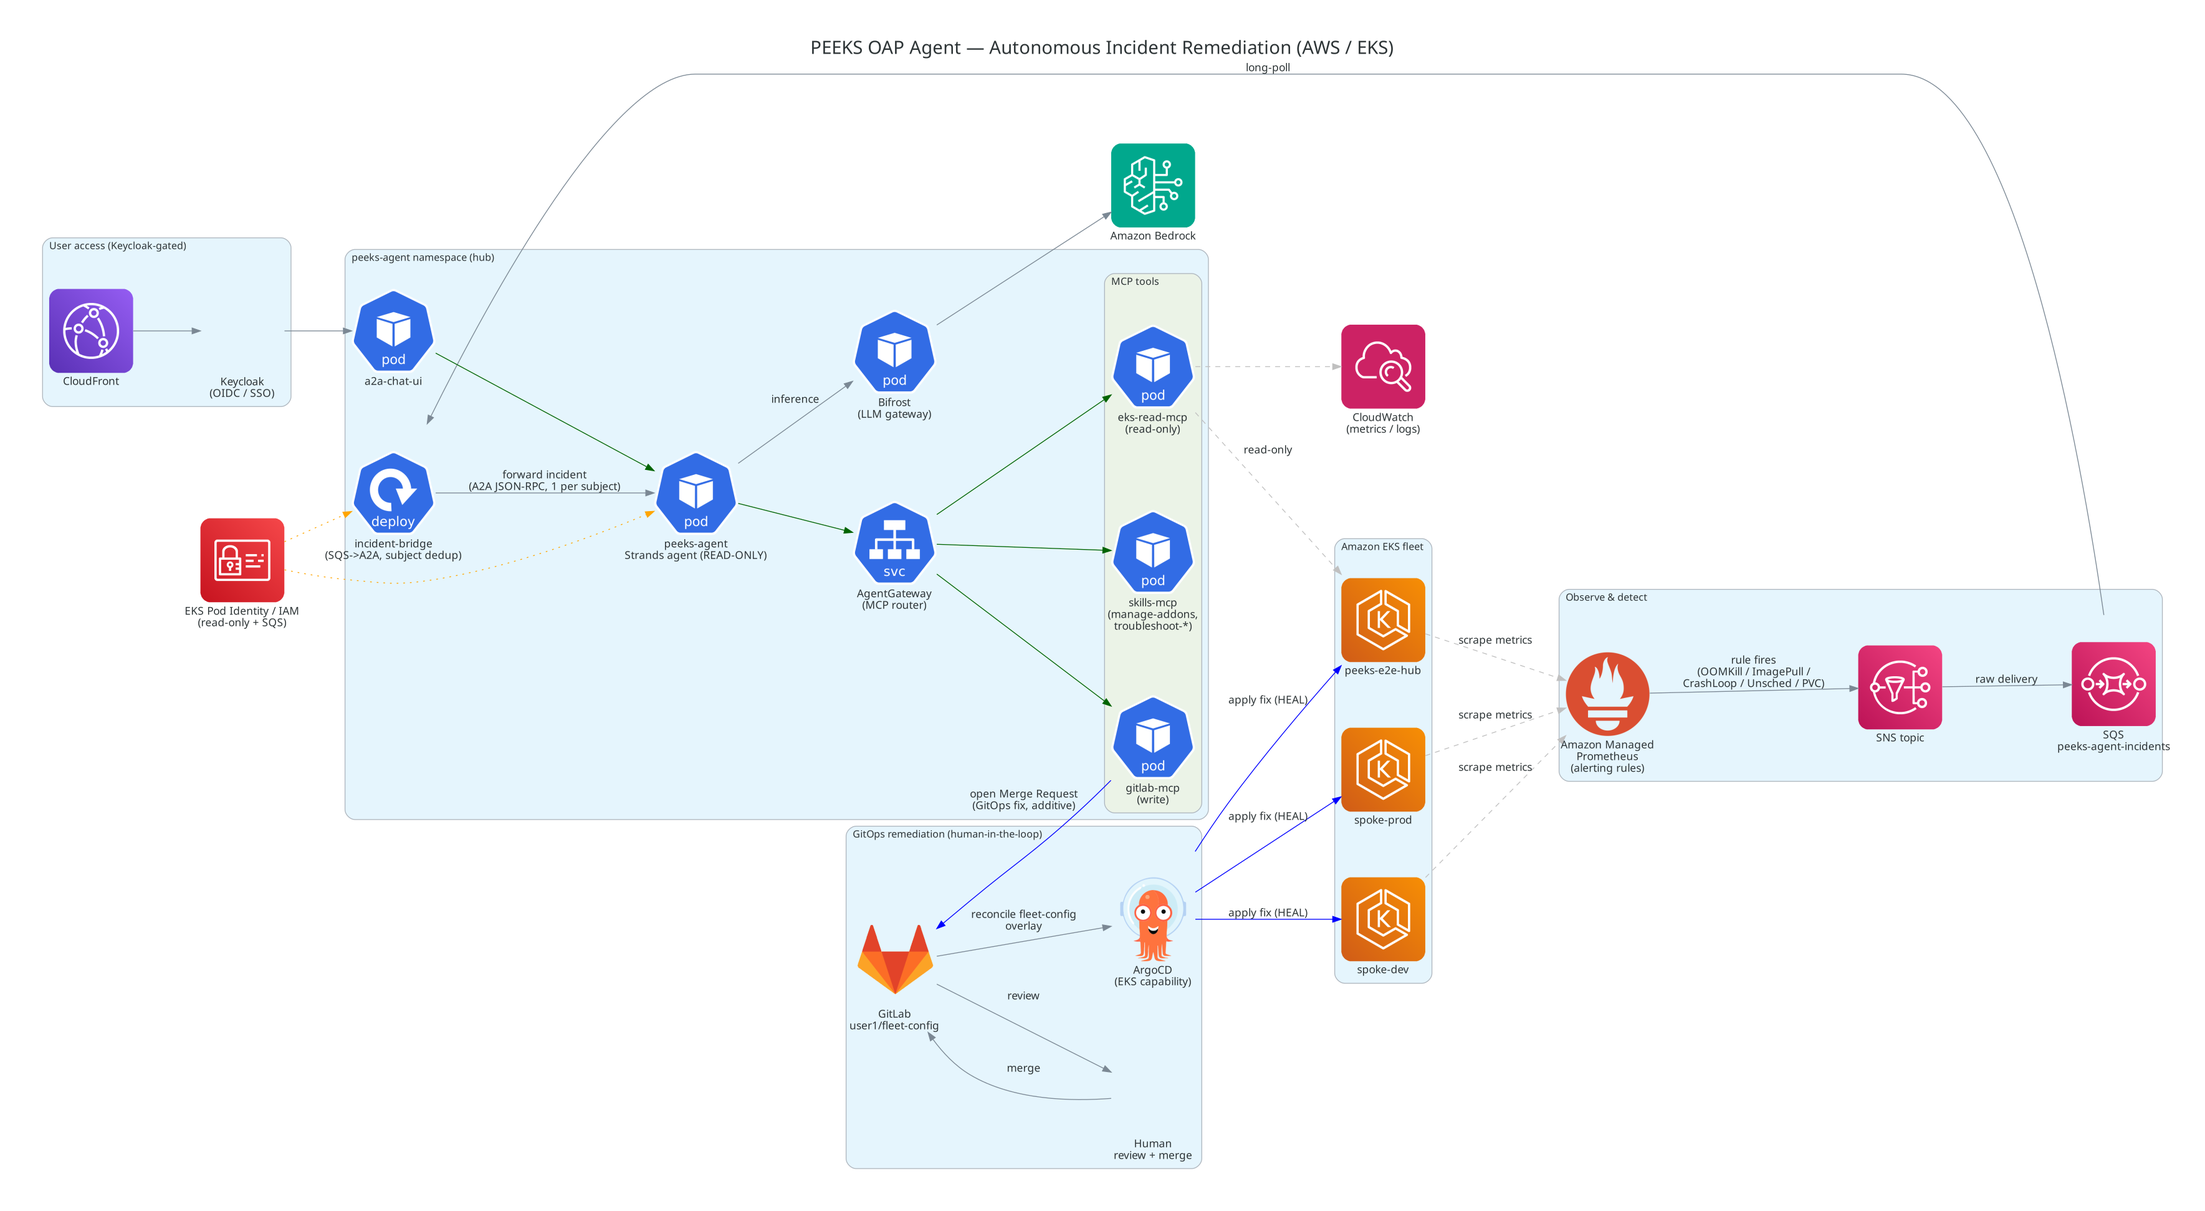
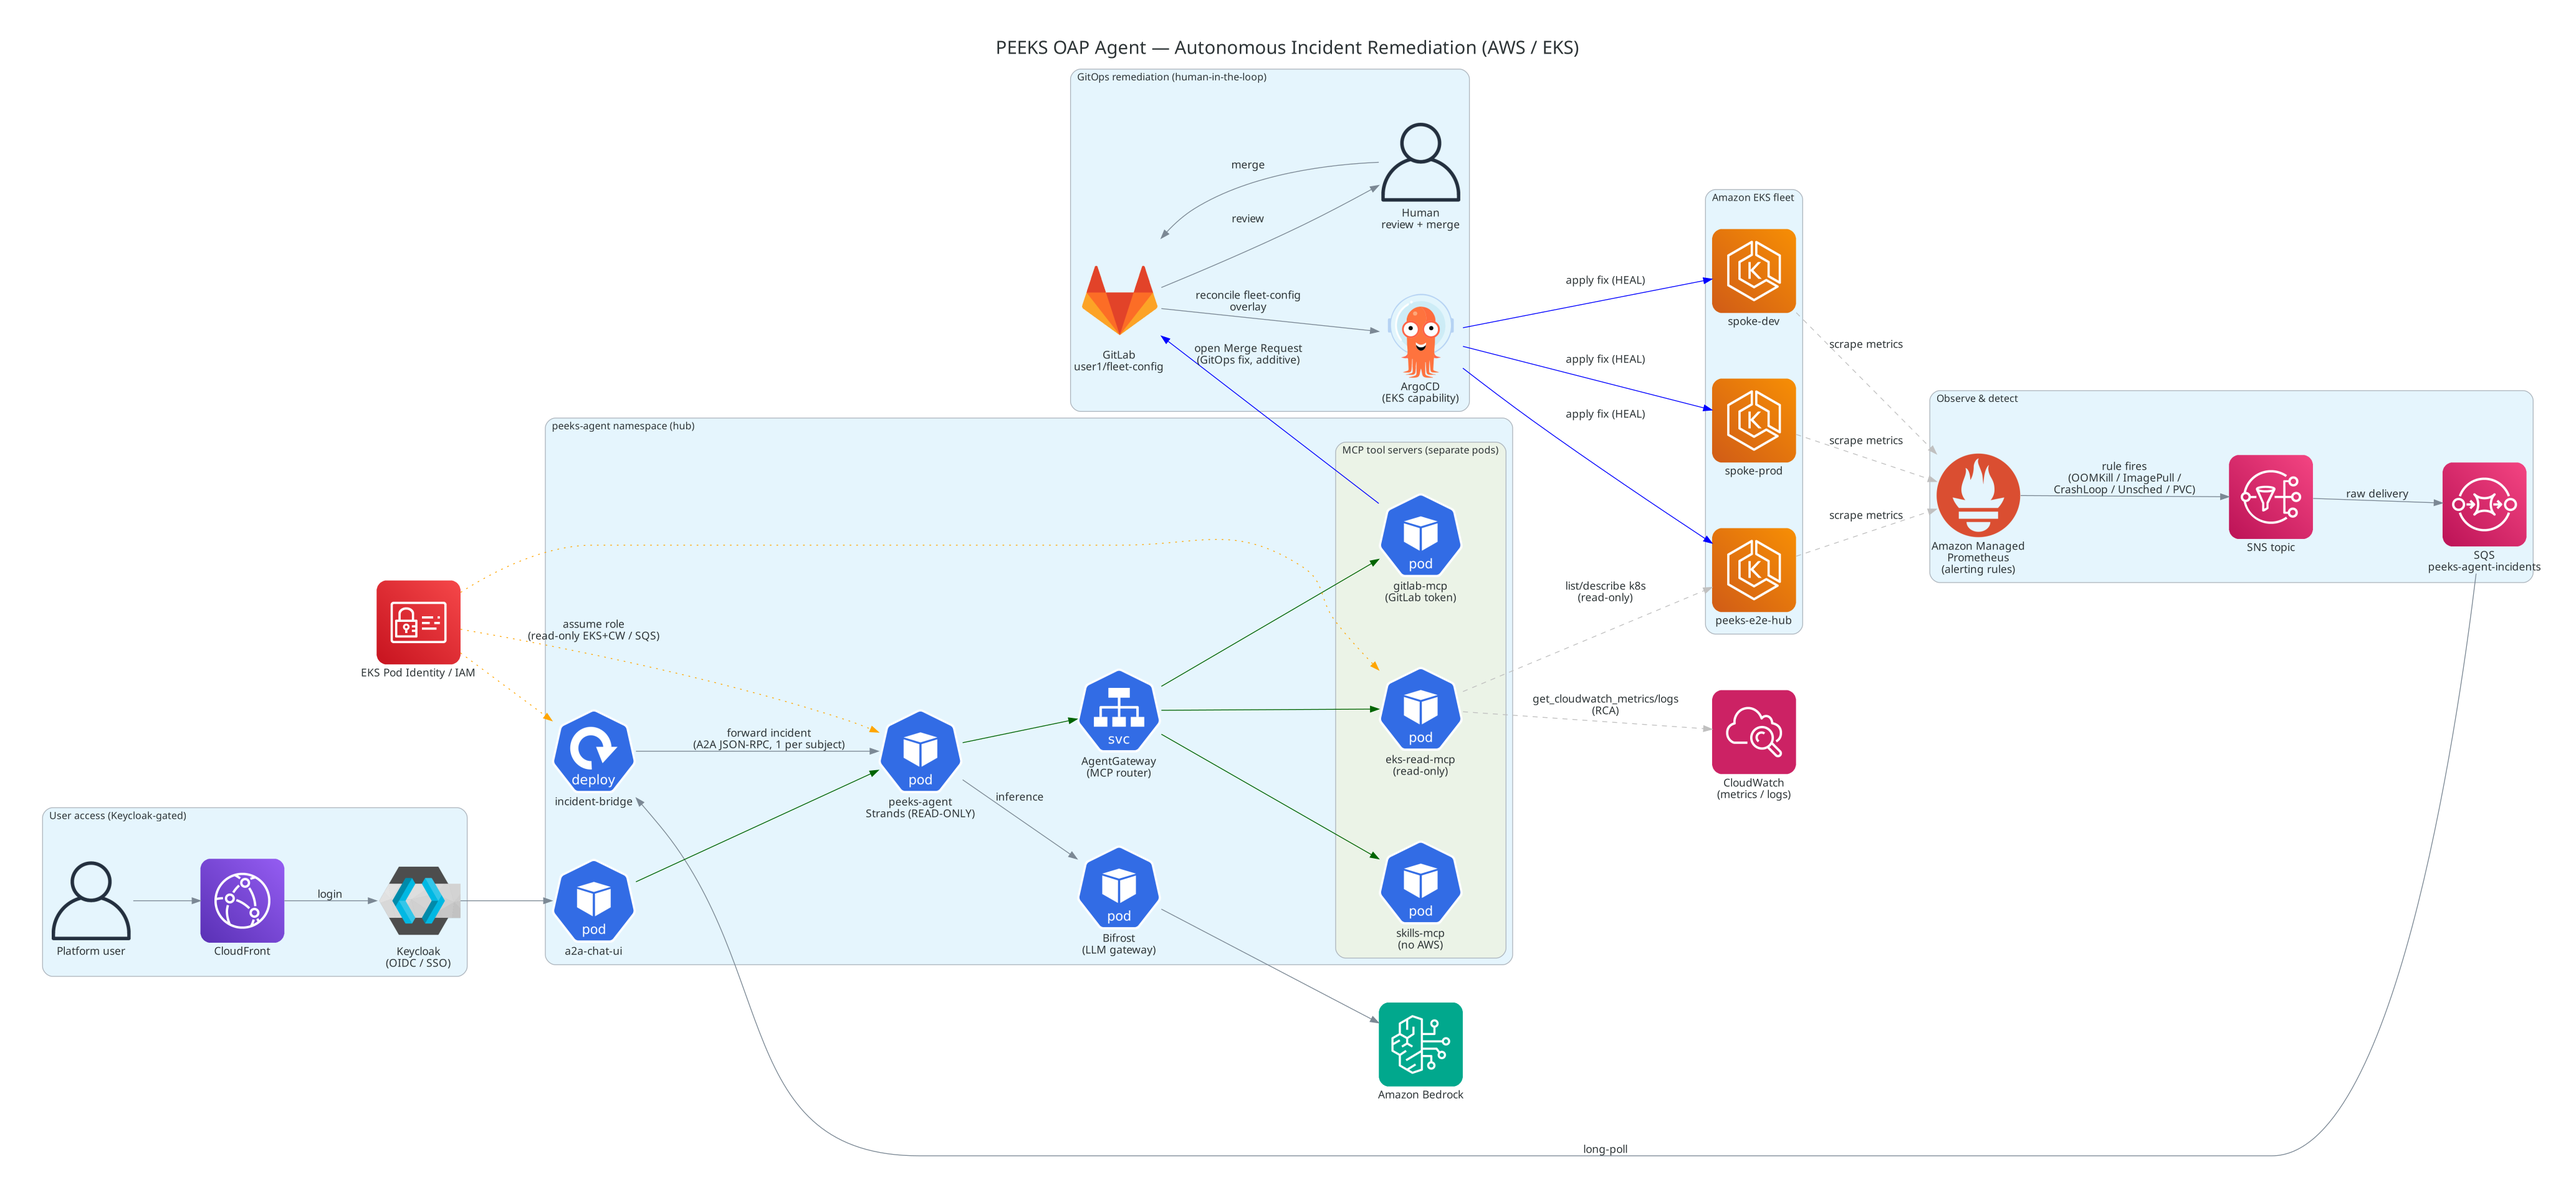
docs(peeks-agent): fix architecture diagram
- Pod Identity now shown on the 3 pods that actually call AWS (verified live):
  peeks-agent, incident-bridge, eks-read-mcp. skills-mcp (local skills) and
  gitlab-mcp (GitLab token) need no AWS identity.
- eks-read-mcp -> CloudWatch labelled get_cloudwatch_metrics/logs (RCA) — the
  awslabs eks-mcp-server exposes those read-only tools for diagnostics.
- real logos: Keycloak (custom) + User icon for platform user and human reviewer.
- shorten incident-bridge node label (was overflowing).

diff --git a/platform/peeks-agent/deploy/peeks-agent-architecture.py b/platform/peeks-agent/deploy/peeks-agent-architecture.py
@@ -6,7 +6,8 @@ ALERTS (SNS->SQS), a read-only agent does RCA and PROPOSES a fix as a GitLab MR,
 a human MERGES, and GitOps (ArgoCD) HEALS the fleet. The agent never mutates the
 cluster directly.
 
-Run:  python3 peeks-agent-architecture.py   (writes peeks-agent-architecture.png)
+Run (from this dir, so icons/ resolves):
+    python3 peeks-agent-architecture.py   # writes peeks-agent-architecture.png
 """
 from diagrams import Diagram, Cluster, Edge
 from diagrams.aws.compute import EKS
@@ -16,12 +17,13 @@ from diagrams.aws.network import CloudFront
 from diagrams.aws.management import Cloudwatch
 from diagrams.aws.security import IdentityAndAccessManagementIam as IAM
 from diagrams.aws.ml import Bedrock
+from diagrams.aws.general import User
 from diagrams.k8s.compute import Pod, Deploy
 from diagrams.k8s.network import SVC
 from diagrams.onprem.vcs import Gitlab
 from diagrams.onprem.gitops import ArgoCD
 from diagrams.onprem.monitoring import Prometheus
-from diagrams.generic.blank import Blank
+from diagrams.custom import Custom
 
 graph_attr = {
     "fontsize": "22",
@@ -42,8 +44,9 @@ with Diagram(
 ):
     # ── User access edge ──
     with Cluster("User access (Keycloak-gated)"):
+        user = User("Platform user")
         cf = CloudFront("CloudFront")
-        kc = Blank("Keycloak\n(OIDC / SSO)")
+        kc = Custom("Keycloak\n(OIDC / SSO)", "icons/keycloak.png")
 
     # ── EKS fleet (workloads run here; ArgoCD heals here) ──
     with Cluster("Amazon EKS fleet"):
@@ -61,13 +64,13 @@ with Diagram(
 
     # ── Agent plane (ns peeks-agent, on the hub) ──
     with Cluster("peeks-agent namespace (hub)"):
-        bridge = Deploy("incident-bridge\n(SQS->A2A, subject dedup)")
-        agent = Pod("peeks-agent\nStrands agent (READ-ONLY)")
+        bridge = Deploy("incident-bridge")
+        agent = Pod("peeks-agent\nStrands (READ-ONLY)")
         gw = SVC("AgentGateway\n(MCP router)")
-        with Cluster("MCP tools"):
-            skills = Pod("skills-mcp\n(manage-addons,\ntroubleshoot-*)")
+        with Cluster("MCP tool servers (separate pods)"):
+            skills = Pod("skills-mcp\n(no AWS)")
             eksread = Pod("eks-read-mcp\n(read-only)")
-            glmcp = Pod("gitlab-mcp\n(write)")
+            glmcp = Pod("gitlab-mcp\n(GitLab token)")
         bifrost = Pod("Bifrost\n(LLM gateway)")
         chat = Pod("a2a-chat-ui")
 
@@ -77,11 +80,11 @@ with Diagram(
     # ── GitOps action / heal ──
     with Cluster("GitOps remediation (human-in-the-loop)"):
         gitlab = Gitlab("GitLab\nuser1/fleet-config")
-        human = Blank("Human\nreview + merge")
+        human = User("Human\nreview + merge")
         argo = ArgoCD("ArgoCD\n(EKS capability)")
 
     # ── IAM / Pod Identity ──
-    iam = IAM("EKS Pod Identity / IAM\n(read-only + SQS)")
+    iam = IAM("EKS Pod Identity / IAM")
     cw = Cloudwatch("CloudWatch\n(metrics / logs)")
 
     # ===== Flows =====
@@ -93,11 +96,15 @@ with Diagram(
     # agent reasoning
     agent >> Edge(color="darkgreen") >> gw
     gw >> Edge(color="darkgreen") >> [skills, eksread, glmcp]
-    eksread >> Edge(label="read-only", style="dashed", color="gray") >> hub
-    eksread >> Edge(style="dashed", color="gray") >> cw
+    eksread >> Edge(label="list/describe k8s\n(read-only)", style="dashed", color="gray") >> hub
+    eksread >> Edge(label="get_cloudwatch_metrics/logs\n(RCA)", style="dashed", color="gray") >> cw
     agent >> Edge(label="inference") >> bifrost >> bedrock
-    iam >> Edge(style="dotted", color="orange") >> agent
+
+    # Pod Identity — ONLY the 3 pods that call AWS (agent, incident-bridge, eks-read-mcp).
+    # skills-mcp (local skills) and gitlab-mcp (GitLab token) need no AWS identity.
+    iam >> Edge(label="assume role\n(read-only EKS+CW / SQS)", style="dotted", color="orange") >> agent
     iam >> Edge(style="dotted", color="orange") >> bridge
+    iam >> Edge(style="dotted", color="orange") >> eksread
 
     # action + heal
     glmcp >> Edge(label="open Merge Request\n(GitOps fix, additive)", color="blue") >> gitlab
@@ -106,4 +113,4 @@ with Diagram(
     argo >> Edge(label="apply fix (HEAL)", color="blue") >> fleet
 
     # user access
-    cf >> kc >> chat >> Edge(color="darkgreen") >> agent
+    user >> cf >> Edge(label="login") >> kc >> chat >> Edge(color="darkgreen") >> agent
